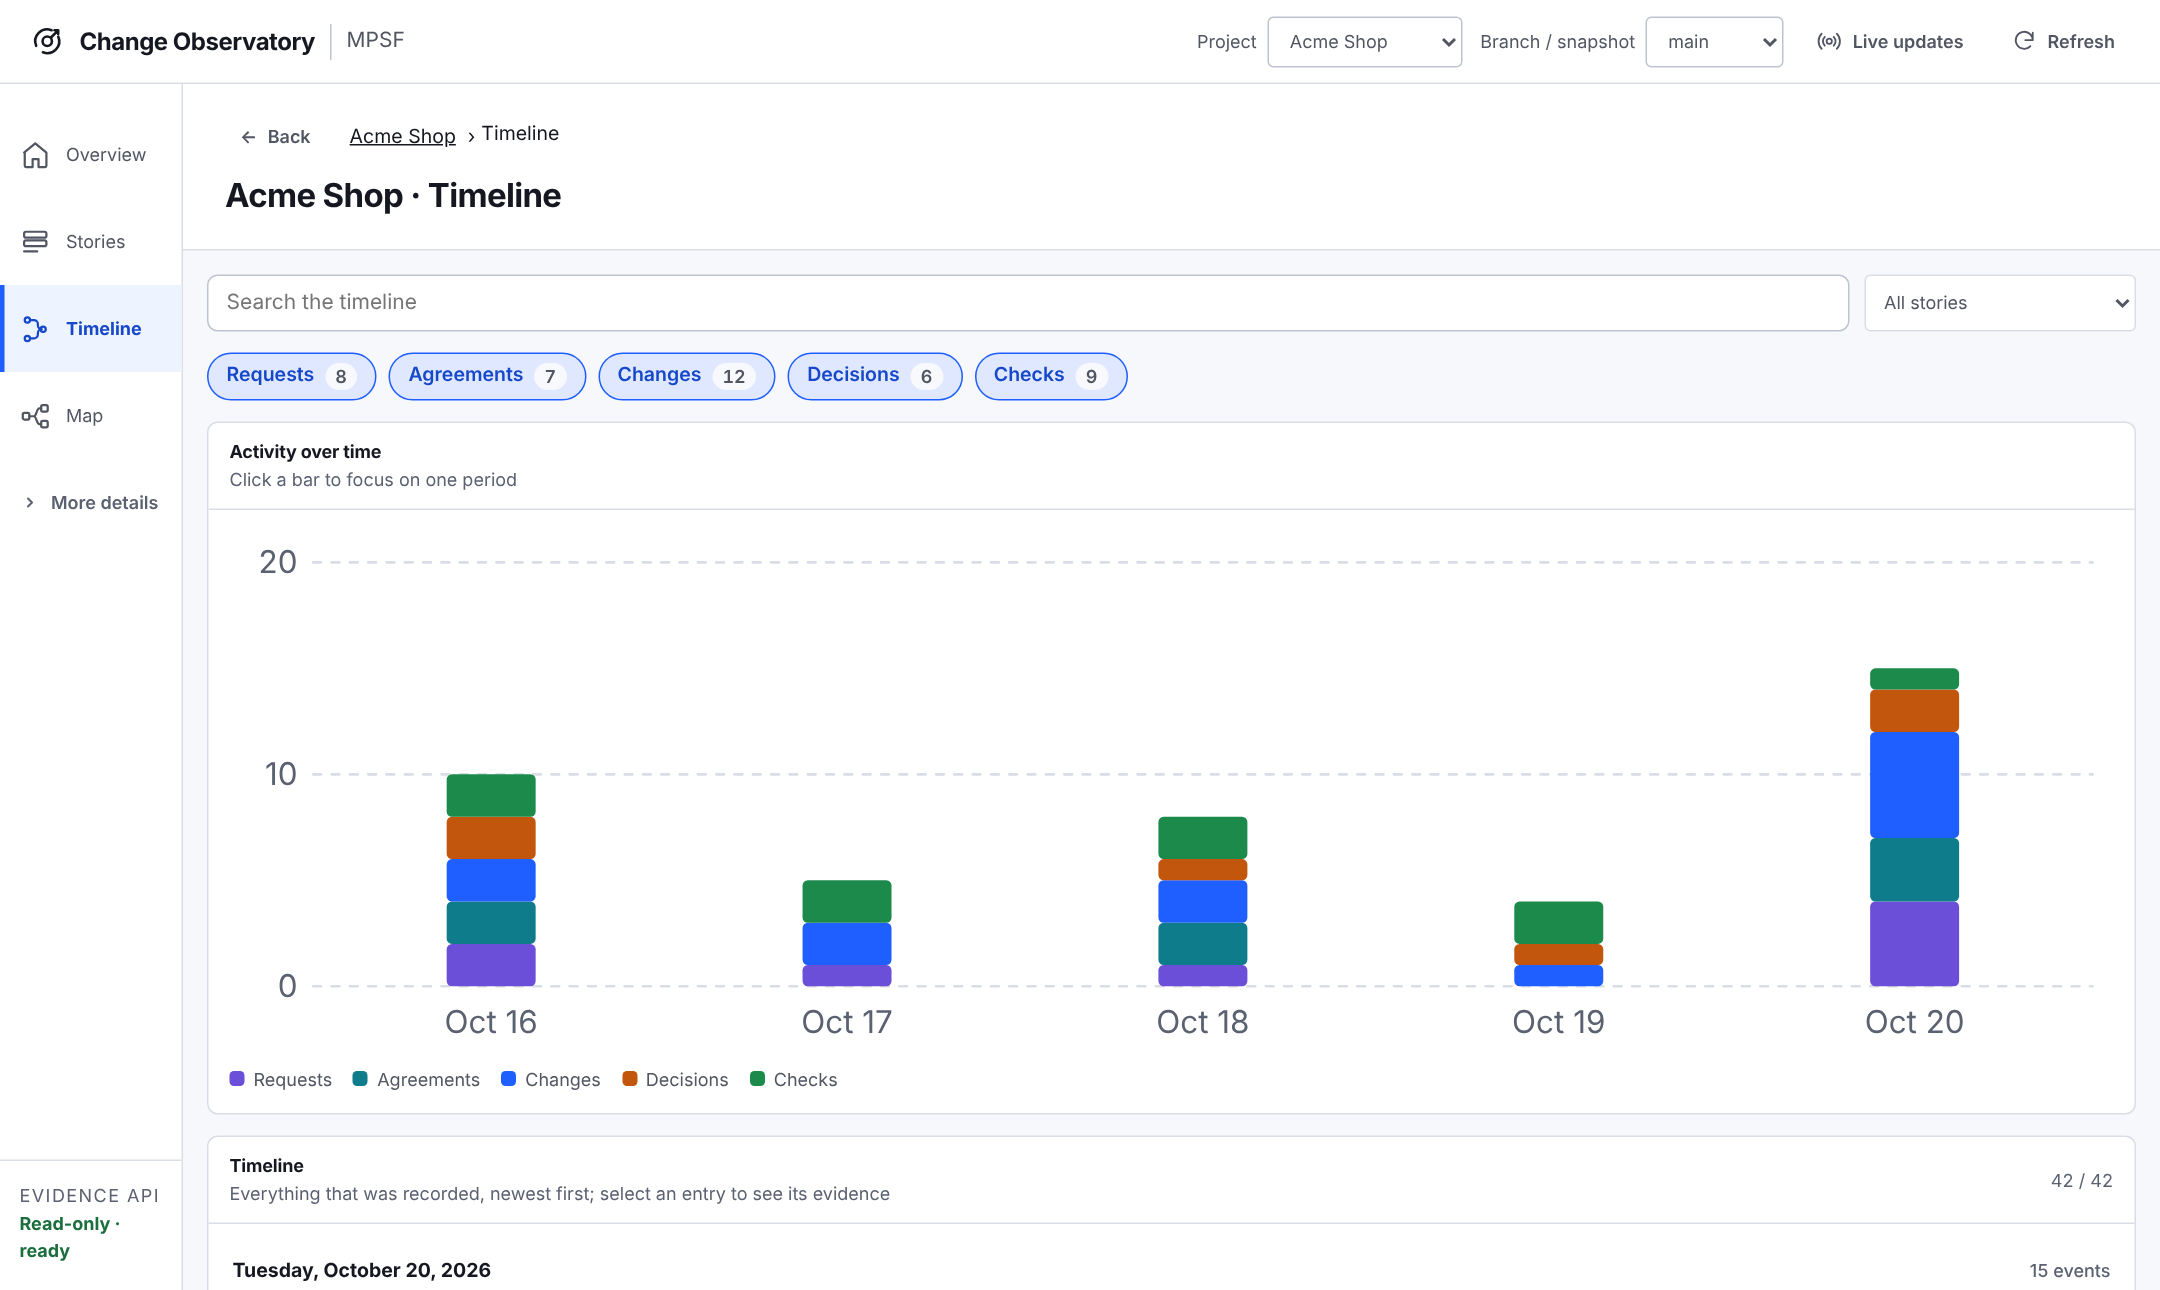
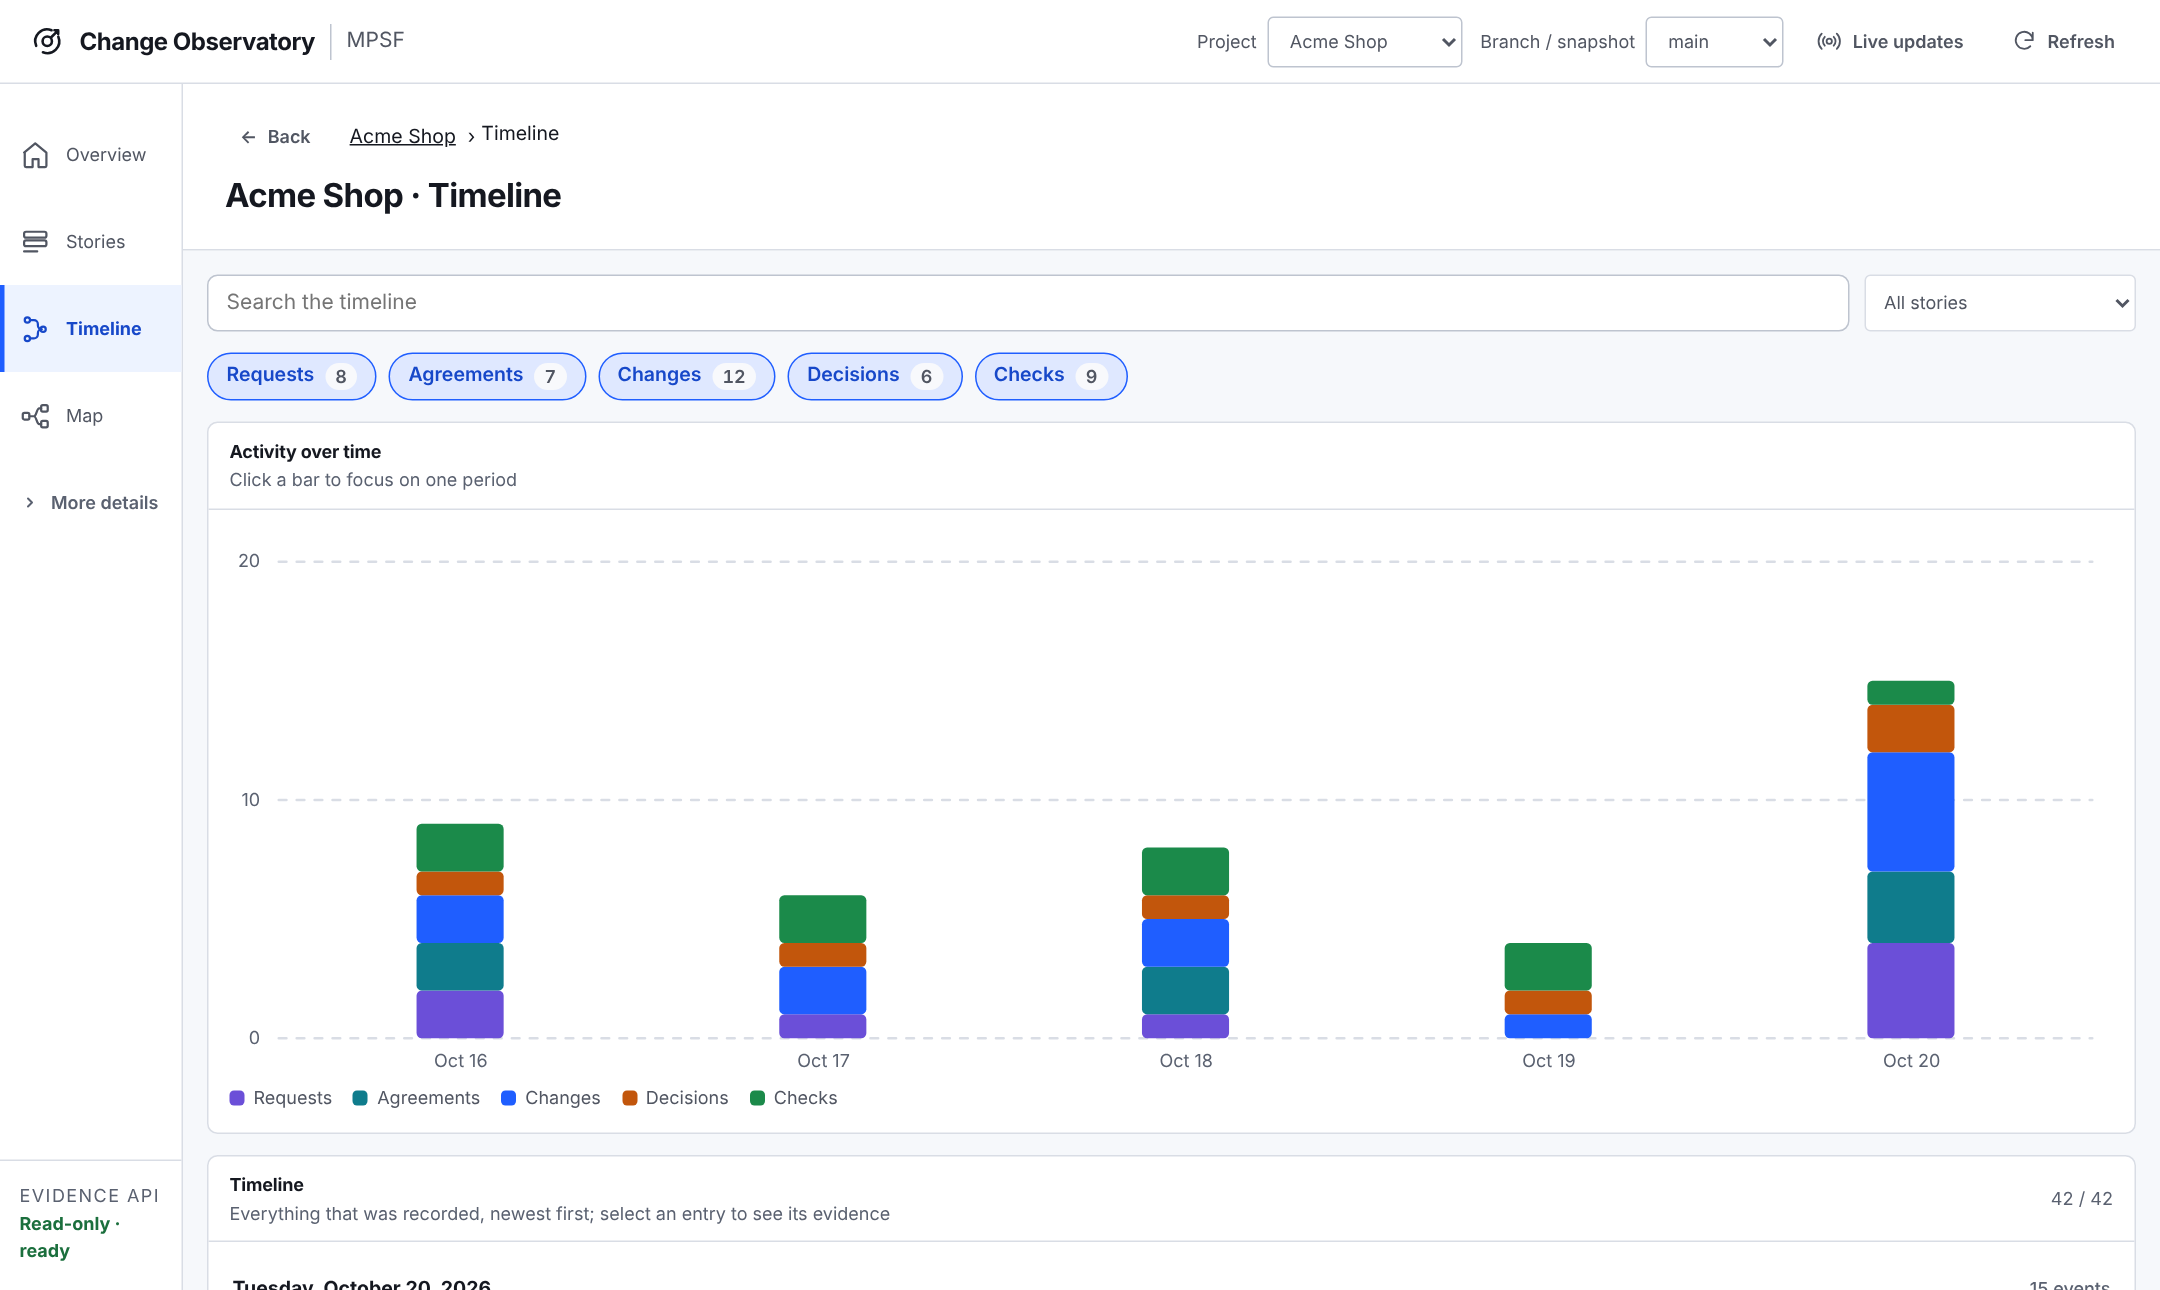
Change Observatory: readable chart labels on phones, routine steps folded in Decisions, fairer portfolio cards (1.0.28)

diff --git a/ui/change-observatory/visuals.js b/ui/change-observatory/visuals.js
@@ -66,6 +66,8 @@ export function defaultExploreState() {
     planFocus: null,
     // null fits the project plan to the page width; a number is a zoom chosen by the reader.
     mapZoom: null,
+    // Decisions hide routine bookkeeping steps until the reader asks for them.
+    routineDecisions: false,
     pages: 1,
   };
 }
@@ -340,7 +342,8 @@ export function activityChart(events, { range = null, compact = false } = {}) {
   if (!buckets.length) return emptyMessage("No dated activity was recorded yet.");
   const width = 720;
   const height = compact ? 170 : 200;
-  const pad = { top: 12, right: 8, bottom: 26, left: 32 };
+  // Axis labels live in HTML beside the scaled SVG so they keep a readable size at any width.
+  const pad = { top: 12, right: 8, bottom: 2, left: 4 };
   const plotWidth = width - pad.left - pad.right;
   const plotHeight = height - pad.top - pad.bottom;
   const max = niceMax(Math.max(...buckets.map((bucket) => bucket.total), 1));
@@ -354,12 +357,12 @@ export function activityChart(events, { range = null, compact = false } = {}) {
     "aria-label": `${t("Activity over time")}: ${countText(total, "event", "events")}`,
     preserveAspectRatio: "none",
   });
+  const yAxis = node("div", { className: "chart-y-axis", attrs: { "aria-hidden": "true" } });
+  const xAxis = node("div", { className: "chart-x-axis", attrs: { "aria-hidden": "true" } });
   for (const fraction of [0, 0.5, 1]) {
     const y = pad.top + plotHeight * (1 - fraction);
-    svg.append(
-      svgNode("line", { className: "chart-grid", x1: pad.left, x2: width - pad.right, y1: y, y2: y }),
-      svgNode("text", { className: "chart-axis", x: pad.left - 6, y: y + 4, "text-anchor": "end", text: Math.round(max * fraction) }),
-    );
+    svg.append(svgNode("line", { className: "chart-grid", x1: pad.left, x2: width - pad.right, y1: y, y2: y }));
+    yAxis.append(axisLabel(Math.round(max * fraction), "top", (y / height) * 100));
   }
   const labelEvery = Math.ceil(buckets.length / (compact ? 4 : 6));
   buckets.forEach((bucket, index) => {
@@ -404,18 +407,27 @@ export function activityChart(events, { range = null, compact = false } = {}) {
     }
     svg.append(group);
     if (index % labelEvery === 0 || index === buckets.length - 1) {
-      svg.append(svgNode("text", {
-        className: "chart-axis",
-        x: pad.left + slot * index + slot / 2,
-        y: height - 8,
-        "text-anchor": "middle",
-        text: unit === "hour"
+      xAxis.append(axisLabel(
+        unit === "hour"
           ? formatDay(bucket.start, { hour: "2-digit", minute: "2-digit" })
           : formatDay(bucket.start, { day: "numeric", month: "short" }),
-      }));
+        "left",
+        ((pad.left + slot * index + slot / 2) / width) * 100,
+      ));
     }
   });
-  return node("figure", { className: "chart-figure" }, [svg, kindLegend()]);
+  return node("figure", { className: "chart-figure" }, [
+    node("div", { className: "chart-plot" }, [yAxis, svg, xAxis]),
+    kindLegend(),
+  ]);
+}
+
+function axisLabel(text, side, percent) {
+  const edge = side === "left" && percent > 90 ? " is-end" : side === "left" && percent < 10 ? " is-start" : "";
+  const label = node("span", { className: `chart-axis-label${edge}`, text: String(text) });
+  // CSSOM writes stay within a style-src 'self' policy, unlike style attributes.
+  if (label.style) label.style[side] = `${percent.toFixed(2)}%`;
+  return label;
 }
 
 function kindLegend(counts = null) {

diff --git a/ui/change-observatory/components.js b/ui/change-observatory/components.js
@@ -948,8 +948,44 @@ function showMoreFooter(shown, total) {
   ]);
 }
 
+// Bookkeeping steps the workflow records as decisions; they stay in the timeline
+// and appear here only on request, so the choices people made stand out.
+const ROUTINE_DECISION_ACTIONS = new Set([
+  "output.link",
+  "contract.story-link",
+  "task.start.confirm",
+  "story.base.acknowledge",
+  "workflow.backfilled",
+]);
+
+export function isRoutineDecision(item) {
+  const action = String(item?.action ?? "");
+  return ROUTINE_DECISION_ACTIONS.has(action) || action.startsWith("delegation.use.");
+}
+
+function decisionsPanel(model, state, paging) {
+  const showRoutine = state.explore?.routineDecisions === true;
+  const routine = model.decisions.filter(isRoutineDecision).length;
+  const items = showRoutine ? model.decisions : model.decisions.filter((item) => !isRoutineDecision(item));
+  const toggle = routine
+    ? node("button", {
+      className: "text-button",
+      text: showRoutine ? t("Hide routine steps") : `${t("Show routine steps")} (${routine})`,
+      attrs: { type: "button", "aria-pressed": String(showRoutine) },
+      dataset: { action: "toggle-routine-decisions" },
+    })
+    : null;
+  return recordsPanel(
+    "Decisions",
+    "Recorded rationale and alternatives across delivery",
+    items,
+    state,
+    { ...paging, actions: toggle ? [toggle] : [] },
+  );
+}
+
 function recordsPanel(title, description, items, state, options = {}) {
-  const panel = node("section", { className: "section-panel" }, [sectionHeading(title, description)]);
+  const panel = node("section", { className: "section-panel" }, [sectionHeading(title, description, options.actions)]);
   if (!items.length) {
     panel.append(emptyInline(options.emptyMessage ?? `Nothing was recorded under ${title.toLowerCase()}.`));
     return panel;
@@ -1249,13 +1285,7 @@ export function renderPrimary(container, model, state) {
       );
       break;
     case "decisions":
-      content = recordsPanel(
-        "Decisions",
-        "Recorded rationale and alternatives across delivery",
-        model.decisions,
-        state,
-        paging,
-      );
+      content = decisionsPanel(model, state, paging);
       break;
     case "changes":
       content = changesPanel(model, state, paging);

diff --git a/ui/change-observatory/styles.css b/ui/change-observatory/styles.css
@@ -2469,6 +2469,10 @@ svg {
     flex-direction: column;
   }
 
+  .dossier-panel > .section-heading > div:first-child {
+    flex-basis: auto;
+  }
+
   .dossier-panel > .section-heading .section-heading-actions,
   .dossier-panel > .section-heading .compact-select {
     width: 100%;
@@ -2504,6 +2508,10 @@ svg {
   .section-heading {
     align-items: flex-start;
     flex-direction: column;
+  }
+
+  .section-heading > div:first-child {
+    flex-basis: auto;
   }
 
   .section-heading-actions {
@@ -2990,11 +2998,44 @@ button.kpi-tile:hover {
   stroke-width: 1;
 }
 
-.chart-axis {
-  fill: var(--ink-muted);
-  stroke: none;
-  font-size: 12px;
+.chart-plot {
+  display: grid;
+  grid-template-columns: auto minmax(0, 1fr);
+  grid-template-rows: auto auto;
 }
+
+.chart-y-axis {
+  position: relative;
+  min-width: 3ch;
+  padding-right: 6px;
+}
+
+.chart-x-axis {
+  position: relative;
+  grid-column: 2;
+  height: 20px;
+}
+
+.chart-axis-label {
+  position: absolute;
+  color: var(--ink-muted);
+  font-size: 12px;
+  line-height: 1;
+  white-space: nowrap;
+}
+
+.chart-y-axis .chart-axis-label {
+  right: 6px;
+  transform: translateY(-50%);
+}
+
+.chart-x-axis .chart-axis-label {
+  top: 6px;
+  transform: translateX(-50%);
+}
+
+.chart-x-axis .chart-axis-label.is-start { transform: none; }
+.chart-x-axis .chart-axis-label.is-end { transform: translateX(-100%); }
 
 .chart-bar {
   cursor: pointer;

diff --git a/ui/change-observatory/app.js b/ui/change-observatory/app.js
@@ -4,6 +4,7 @@ import {
   phaseSelectionId,
   phaseSelectionItem,
   hasMissingKnowledgeBase,
+  isRoutineDecision,
   renderDiagnostics,
   renderFatalError,
   renderInspector,
@@ -789,7 +790,10 @@ const VIEW_COLLECTIONS = Object.freeze({
 });
 
 function followViewSelection(view) {
-  const items = state.model?.[VIEW_COLLECTIONS[view]];
+  let items = state.model?.[VIEW_COLLECTIONS[view]];
+  if (view === "decisions" && Array.isArray(items) && !state.explore?.routineDecisions) {
+    items = items.filter((item) => !isRoutineDecision(item));
+  }
   if (!Array.isArray(items) || !items.length || items.includes(state.selectedItem)) return;
   const id = recordSelectionKey(items[0]);
   if (!id || !state.records.has(id)) return;
@@ -1068,6 +1072,11 @@ function handleExploreAction(element) {
       break;
     case "timeline-more":
       explore.pages += 1;
+      render();
+      break;
+    case "toggle-routine-decisions":
+      explore.routineDecisions = !explore.routineDecisions;
+      explore.pages = 1;
       render();
       break;
     case "plan-all":

diff --git a/ui/change-observatory/i18n.js b/ui/change-observatory/i18n.js
@@ -361,6 +361,8 @@ const ITALIAN = Object.freeze({
   "Week of": "Settimana del",
   "No dated activity was recorded yet.": "Non è ancora stata registrata alcuna attività con data.",
   "Activity over time": "Attività nel tempo",
+  "Show routine steps": "Mostra i passaggi di routine",
+  "Hide routine steps": "Nascondi i passaggi di routine",
   "No result recorded": "Esito non registrato",
   "Now": "Ora",
   "No story is in progress right now": "Nessuna storia è in corso in questo momento",

diff --git a/docs/change-observatory.md b/docs/change-observatory.md
@@ -55,7 +55,7 @@ here), and the ref mode keeps a snapshot under `.git/agentic-sdlc/observatory/`.
    | Map | When `.sdlc/dependencies/graph.json` exists, the map opens on the **project plan**: every story in waves from left to right, with a line from each story to the work it unlocks. Selecting a story lights up its whole chain. The plan fits the page width; **+** and **−** zoom, **Reset** fits it again. **One story in detail** shows the lineage of one story from the request to the checks; related records are drawn for the selected box only. |
    | Story dossier | Each piece of work step by step, from the request to verification, plus the phase-by-phase lineage matrix. Old `#timeline` links open this view. |
    | Contracts | The agreed boundaries and how they changed over time. |
-   | Decisions | Choices that were made, with the reasons and the alternatives that were rejected. |
+   | Decisions | Choices that were made, with the reasons and the alternatives that were rejected. Routine bookkeeping steps (work started, result attached, agreement linked) stay in the timeline and appear here only after **Show routine steps**. |
    | Changes | What was actually changed, grouped by the intent behind it. |
    | Intent evidence | Optional, content-free notes about what an agent was asked to do. It is empty unless that recording is turned on, and an empty view is normal. |
    | Verification | The checks and gates that were run, and what they showed. |
@@ -189,7 +189,10 @@ Each project card shows the requests and decisions it found, the stories in
 progress and the blocked ones, plus the titles of up to three recent requests.
 The cards come from a quick, bounded read of each project: when a large project
 is read only in part, a count shows as `12+` (at least 12) or `–` (not reached),
-and the card asks for a review. Open the project for the full picture.
+and the card asks for a review. Each kind of record gets a fair share of that
+read, so hundreds of requests do not hide the stories and workflows. A finished
+workflow does not count as in progress, and an old failed report does not count
+as blocked. Open the project for the full picture.
 
 For CI or a quick terminal check, use the one-shot read-only command instead:
 

diff --git a/CHANGELOG.md b/CHANGELOG.md
@@ -2,6 +2,10 @@
 
 User-visible changes of the plugin, newest first. Design notes live in [docs/plans](docs/plans); this file says what changed for you and what to do about it.
 
+## 1.0.28
+
+- Change Observatory: chart axis labels keep a readable size at any width and panel headings no longer grow tall on phones; Decisions hide routine bookkeeping steps (work started, result attached, agreement linked) behind Show routine steps; portfolio cards give each record kind a fair share of the bounded read, stop counting finished workflows as in progress and old failed reports as blocked.
+
 ## 1.0.27
 
 - Change Observatory, portfolio view: project cards no longer show Changed 0 and Checks 0, which the quick project read never counted; they show requests, decisions, stories in progress and blocked stories, with `12+` or `–` when a large project was read only in part. Previews list only records with a title, so "Recorded evidence / No summary was recorded" no longer fills the card, and requirement lifecycle events are no longer counted as requests. Compatibility: no record, ref or config key changed; an older server without the in-progress and blocked counts shows the card without them.

diff --git a/README.md b/README.md
@@ -193,6 +193,7 @@ A spec-driven kit gives the agent better instructions: spec, plan and task files
 
 ## What's new
 
+- **1.0.28** — Observatory: readable charts on phones, Decisions without routine noise, fairer portfolio cards.
 - **1.0.27** — Change Observatory: portfolio cards show only what was counted.
 - **1.0.26** — Change Observatory: quieter record lists.
 - **1.0.25** — Change Observatory: layout fixes found on a real 122-story project.
